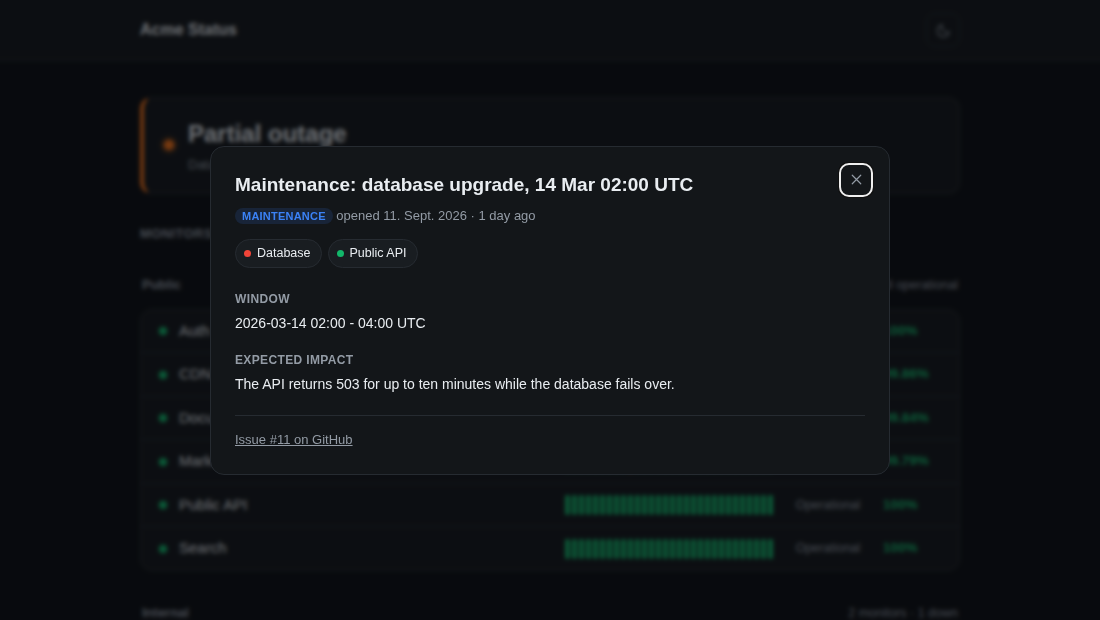
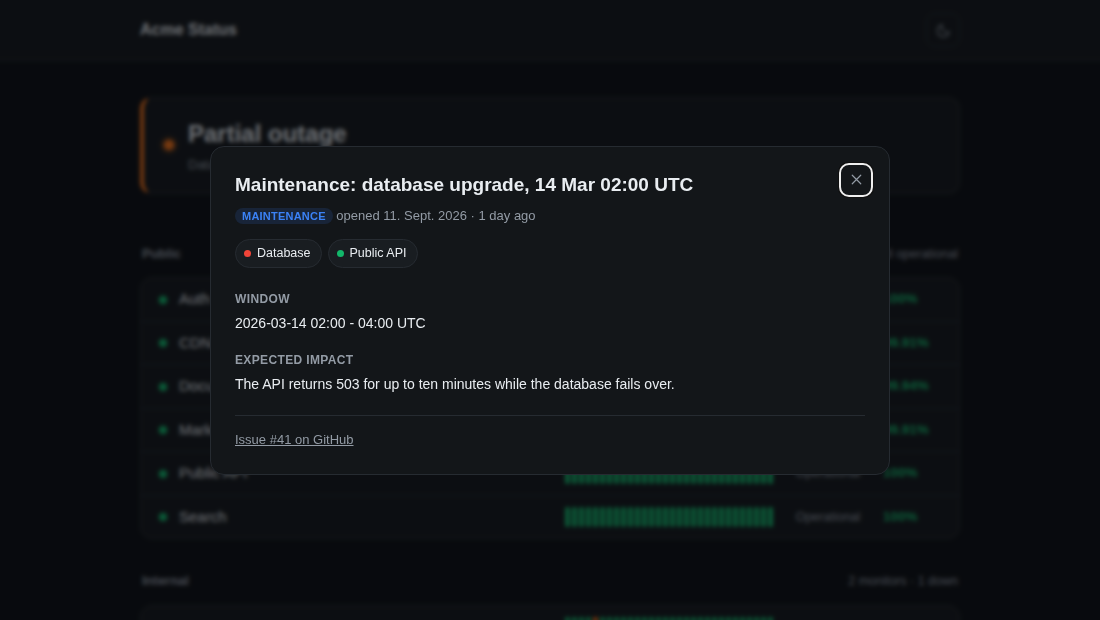
style: drop the Monitors heading above the list
The banner already says what the list below it is. Its 30px gap moves to
.monitors so the spacing under the banner is unchanged; screenshots
regenerated.

diff --git a/site/index.html b/site/index.html
@@ -31,10 +31,6 @@
         </div>
       </section>
 
-      <div class="list-head">
-        <h2 class="section-title">Monitors</h2>
-      </div>
-
       <div id="monitors" class="monitors"></div>
 
       <p id="empty" class="empty" hidden>

diff --git a/site/style.css b/site/style.css
@@ -336,6 +336,8 @@ main.shell {
   display: flex;
   flex-direction: column;
   gap: 12px;
+  /* The removed heading used to carry this gap below the banner. */
+  margin-top: 30px;
 }
 
 .group-head {
